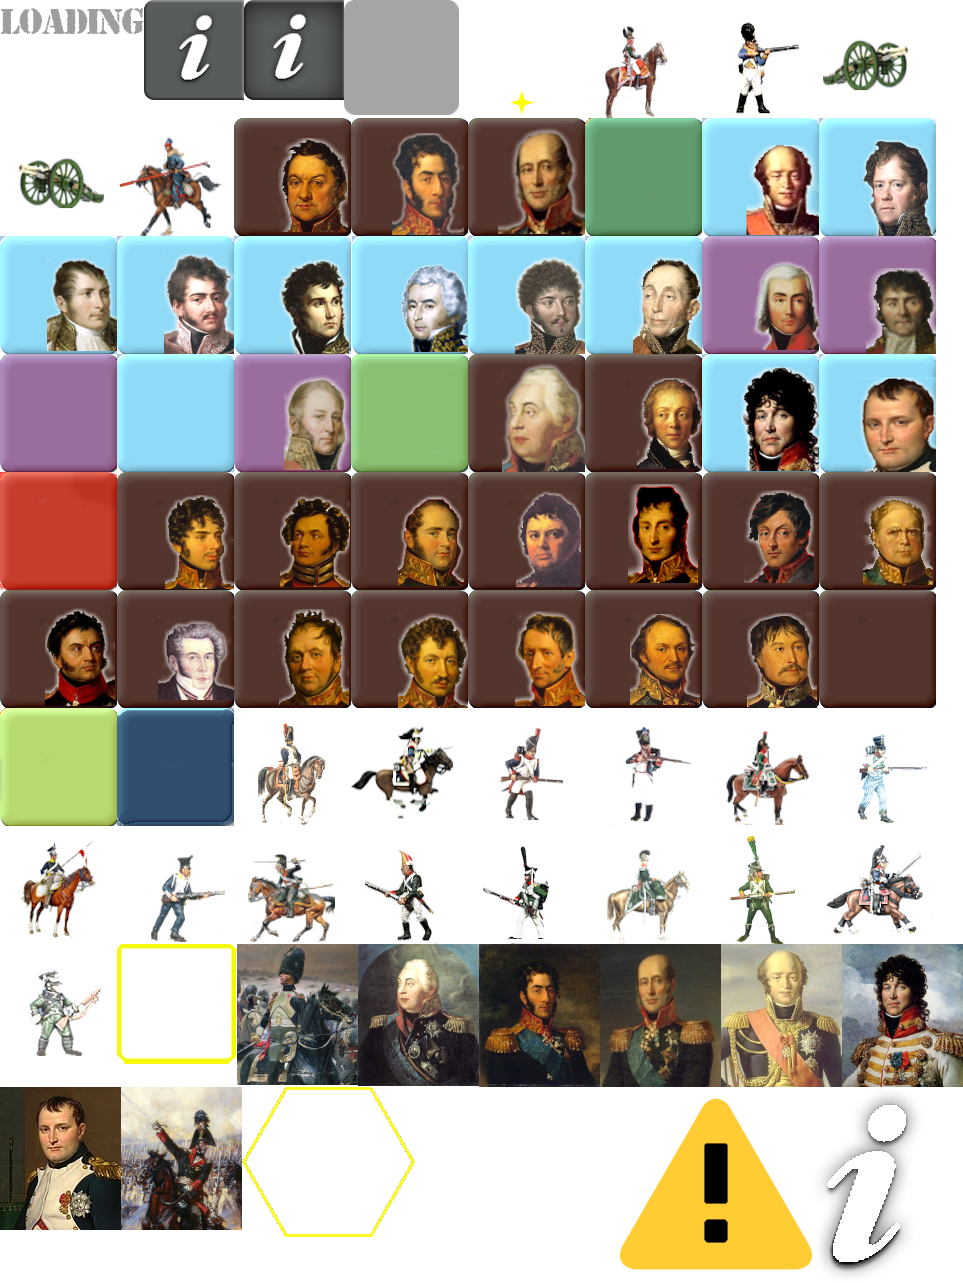
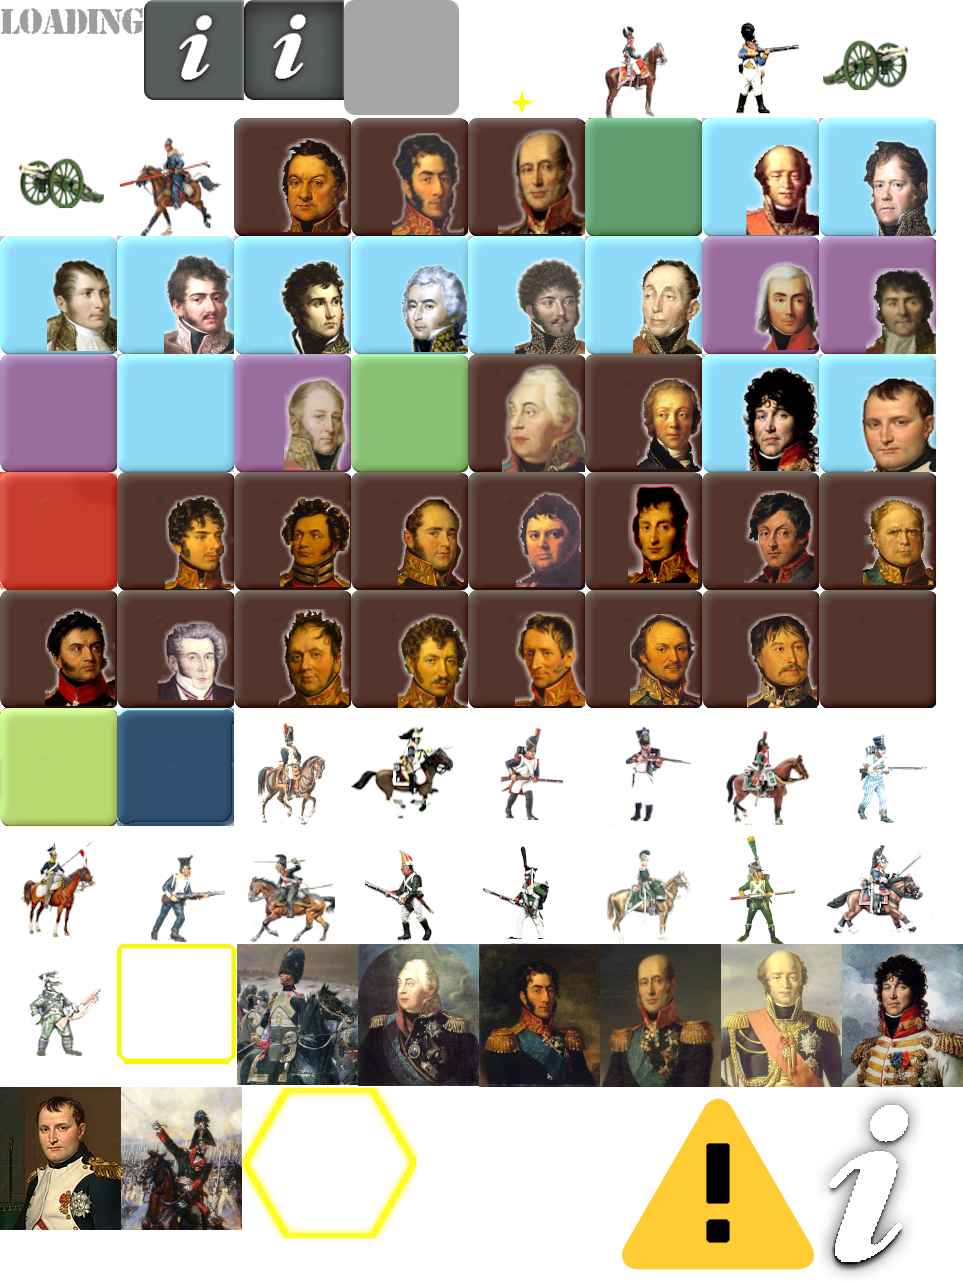
Refactor: Implement ClickAction for Unit Movement and Adjust UI
This commit introduces functionality for unit movement via `ClickAction` and makes several UI adjustments.

- **ClickAction for Movement**:
    - Implemented `process` method in `ClickAction` to handle unit movement. When a `Move` action is triggered, the `moveUnit` method is called.
    - `moveUnit` now locks the action, removes highlights and click actions from the unit's map counter, removes the hex highlight, and initiates the unit move using `Move.instance.moveUnitFromClick`.
- **UI Adjustments**:
    - Modified `HexHiliteDisplay` to adjust the position of the highlight image.
    - Updated coordinates and sizes for `hilitehex`, `hilitehexmove3`, `infoover`, and `warning` in `counter.txt` and the corresponding `counter.png`.
- **Observer Logic**:
    - Updated `HiliteHex` to register as an observer with `Borodino.instance` unless the `typeIn` is `TypeHilite.Move`, in addition to the existing `TypeHilite.Debug` exclusion.
- **Command Randomization Delay**:
    - Reduced the delay in `DoCommandRandom` for ending `winCommandRandom` from 2 seconds to 1 second.
- **Texture Loading**:
    - Commented out example texture loading parameters in `SplashScreen` (related to mipmaps and filtering).

diff --git a/core/src/brunibeargames/Unit/ClickAction.java b/core/src/brunibeargames/Unit/ClickAction.java
@@ -10,6 +10,7 @@ import java.util.Observer;
 import brunibeargames.AIUtil;
 import brunibeargames.Hex;
 import brunibeargames.HiliteHex;
+import brunibeargames.Move;
 import brunibeargames.ObserverPackage;
 import brunibeargames.UI.EventConfirm;
 
@@ -162,6 +163,8 @@ public class ClickAction implements Observer {
     public void process(Hex hex, boolean isAI, HiliteHex.TypeHilite type) {
         switch(typeAction){
             case Move:
+                app.log("ClickAction", "process Move " + unit+" toHex="+hex);
+                moveUnit(unit, hex, isAI);
            case Advance:
             default:
                 break;
@@ -169,6 +172,13 @@ public class ClickAction implements Observer {
 
     }
     private void moveUnit(Unit unit, Hex hex, boolean isAI){
+        isLocked = true;
+        unit.getMapCounter().getCounterStack().removeHilite();
+        unit.getMapCounter().removeClickAction();
+        hiliteHex.remove();
+        Move.instance.moveUnitFromClick(unit, hex, isAI);
+        hexProcess = hex;
+
 
     }
     public static int getClickActionsLeft(){

diff --git a/core/src/brunibeargames/HiliteHex.java b/core/src/brunibeargames/HiliteHex.java
@@ -40,6 +40,9 @@ public class HiliteHex implements Observer {
         if (typeIn != TypeHilite.Debug) {
             Borodino.instance.addObserver(this);
         }
+        if (typeIn != TypeHilite.Move) {
+            Borodino.instance.addObserver(this);
+        }
     }
     public void addSecondPanzer(ArrayList<Hex> arrHexIn){
         for (Hex hex:arrHexIn){
@@ -82,7 +85,7 @@ public class HiliteHex implements Observer {
 
 
     private void processHit(Hex hex) {
- /*       if (type == TypeHilite.Supply){
+       /* if (type == TypeHilite.Supply){
             Supply.instance.process(hex);
         }else if(type== TypeHilite.SupplyAmerican) {
             return;
@@ -92,11 +95,11 @@ public class HiliteHex implements Observer {
         }else if (type == TypeHilite.ReinforceDisplay) {
             Reinforcement.instance.showReinDisplay(hex);
         }
-        else{
+        else{ */
             if (clickAction != null) {
                 clickAction.process(hex, false, type);
             }
-        } */
+
     }
 
     private void cancelHit(){

diff --git a/core/src/brunibeargames/SplashScreen.java b/core/src/brunibeargames/SplashScreen.java
@@ -346,6 +346,13 @@ public class SplashScreen {
         soundsManager.load("sounds/mortar.mp3", Sound.class);
         soundsManager.load("sounds/tada.mp3", Sound.class);
         unitsManager.load("counter/counter.txt", TextureAtlas.class);
+        // assetManager.load("your_graphic.png", Texture.class, new TextureLoader.TextureParameter() {{
+//     format = Pixmap.Format.RGBA8888;
+//     genMipMaps = true; // Generate mipmaps if needed for scaling
+//     minFilter = Texture.TextureFilter.Linear; // Or MipMapLinearLinear
+//     magFilter = Texture.TextureFilter.Linear;
+//     premultipliedAlpha = true; // Set to true for premultiplied alpha
+// }});
         TextureLoader.TextureParameter param = new TextureLoader.TextureParameter();
         param.minFilter = Texture.TextureFilter.Linear;
 

diff --git a/core/src/brunibeargames/HexHiliteDisplay.java b/core/src/brunibeargames/HexHiliteDisplay.java
@@ -54,17 +54,17 @@ public class HexHiliteDisplay {
      //   label2.setPosition(pos.x, pos.y+50);
 
 
-        pos.x -= 48;  //-48
-        pos.y -= 18; //22
+        pos.x -= 36;  //-48
+        pos.y -= 15; //22
         float xdiv = hex.xTable;
  //       float adjustx = (32/xdiv) * .3125f;
-        if (xdiv < 10) {
+ /*       if (xdiv < 10) {
             pos.x -= 10;
         }else if (xdiv < 20){
             pos.x -=6;
         }else if (xdiv < 30){
         pos.x -=3;
-        }
+        } */
 
         if (type == HiliteHex.TypeHilite.ReinforceDisplay){
             image = new Image(backHiliteReinDisplay);

diff --git a/core/src/brunibeargames/DoCommandRandom.java b/core/src/brunibeargames/DoCommandRandom.java
@@ -94,7 +94,7 @@ public class DoCommandRandom implements Observer {
                 public void run() {
                     winCommandRandom.end();
                 }
-            }, 2f); // The delay in seconds (0.1f for 0.1 seconds)
+            }, 1f); // The delay in seconds (0.1f for 0.1 seconds)
 
             // nextphase?
             return;
